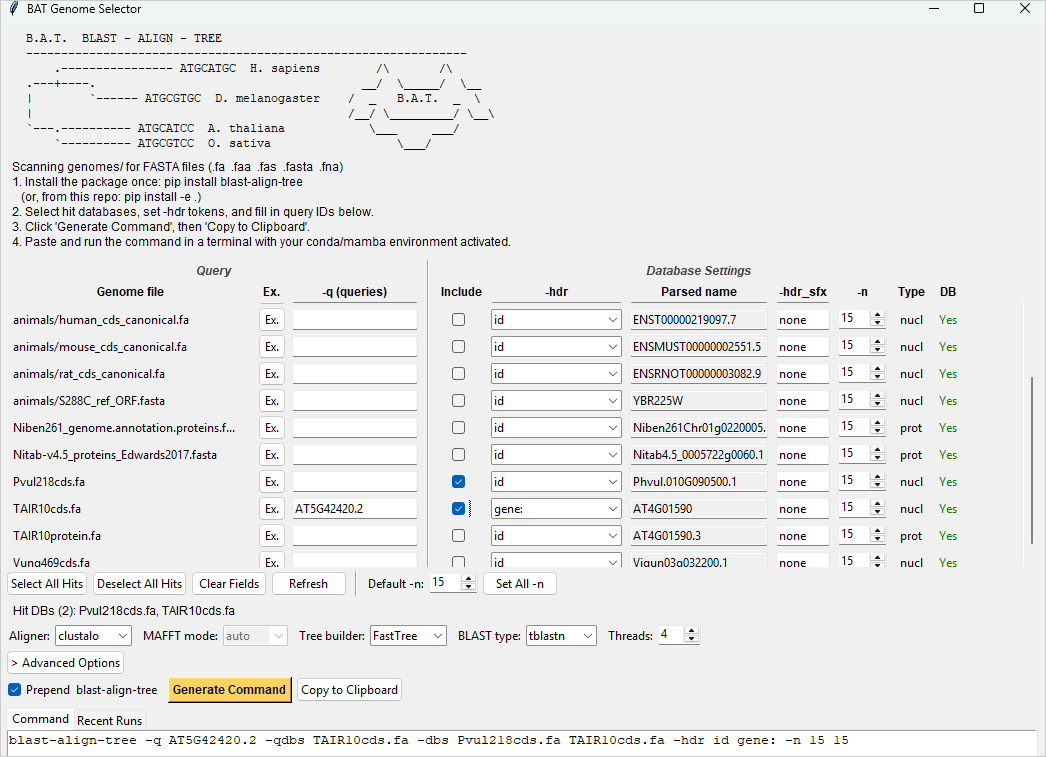
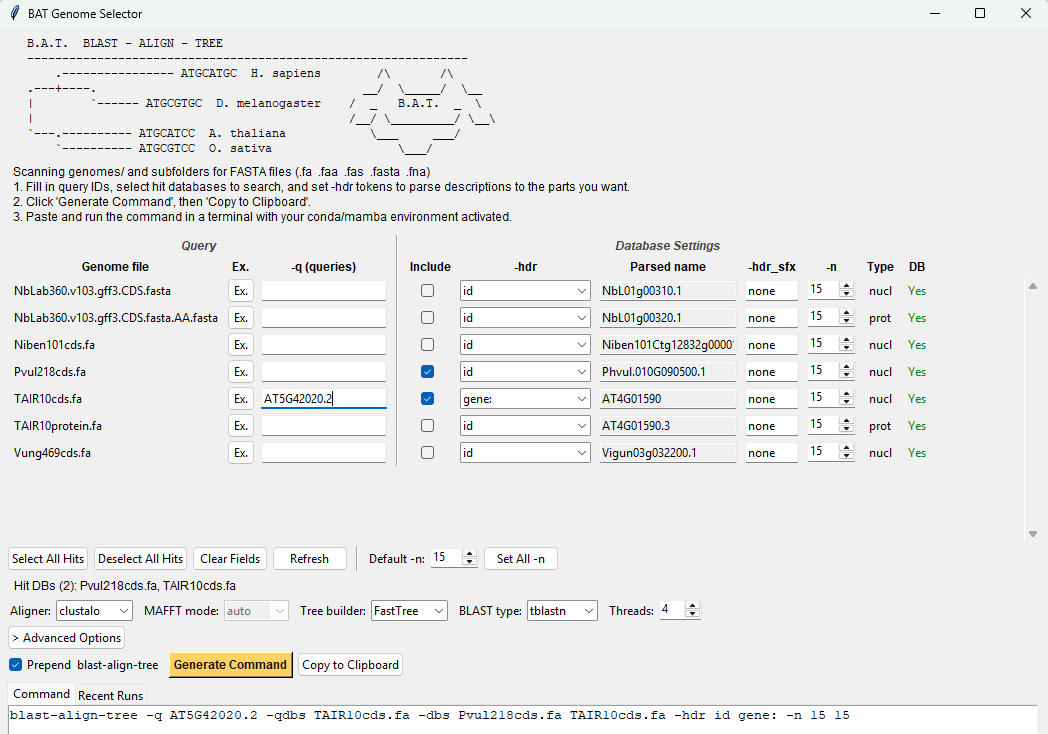
update readme

diff --git a/README.md b/README.md
@@ -419,7 +419,9 @@ blast-align-tree -q AT5G45250.1 Phvul.007G077500.1 AT5G17890.1 \
 ### Slicing query amino-acid ranges with `-aa`
 
 `-aa` trims each query to a sub-range (0-based, Python-style:
-`start`-inclusive, `end`-exclusive) before BLAST. Two forms are
+`start`-inclusive, `end`-exclusive) before BLAST. The hits are not trimmed, only the query sequences.
+
+Two forms are
 supported:
 
 - **Single range, applied to every query** — two bare integers:
